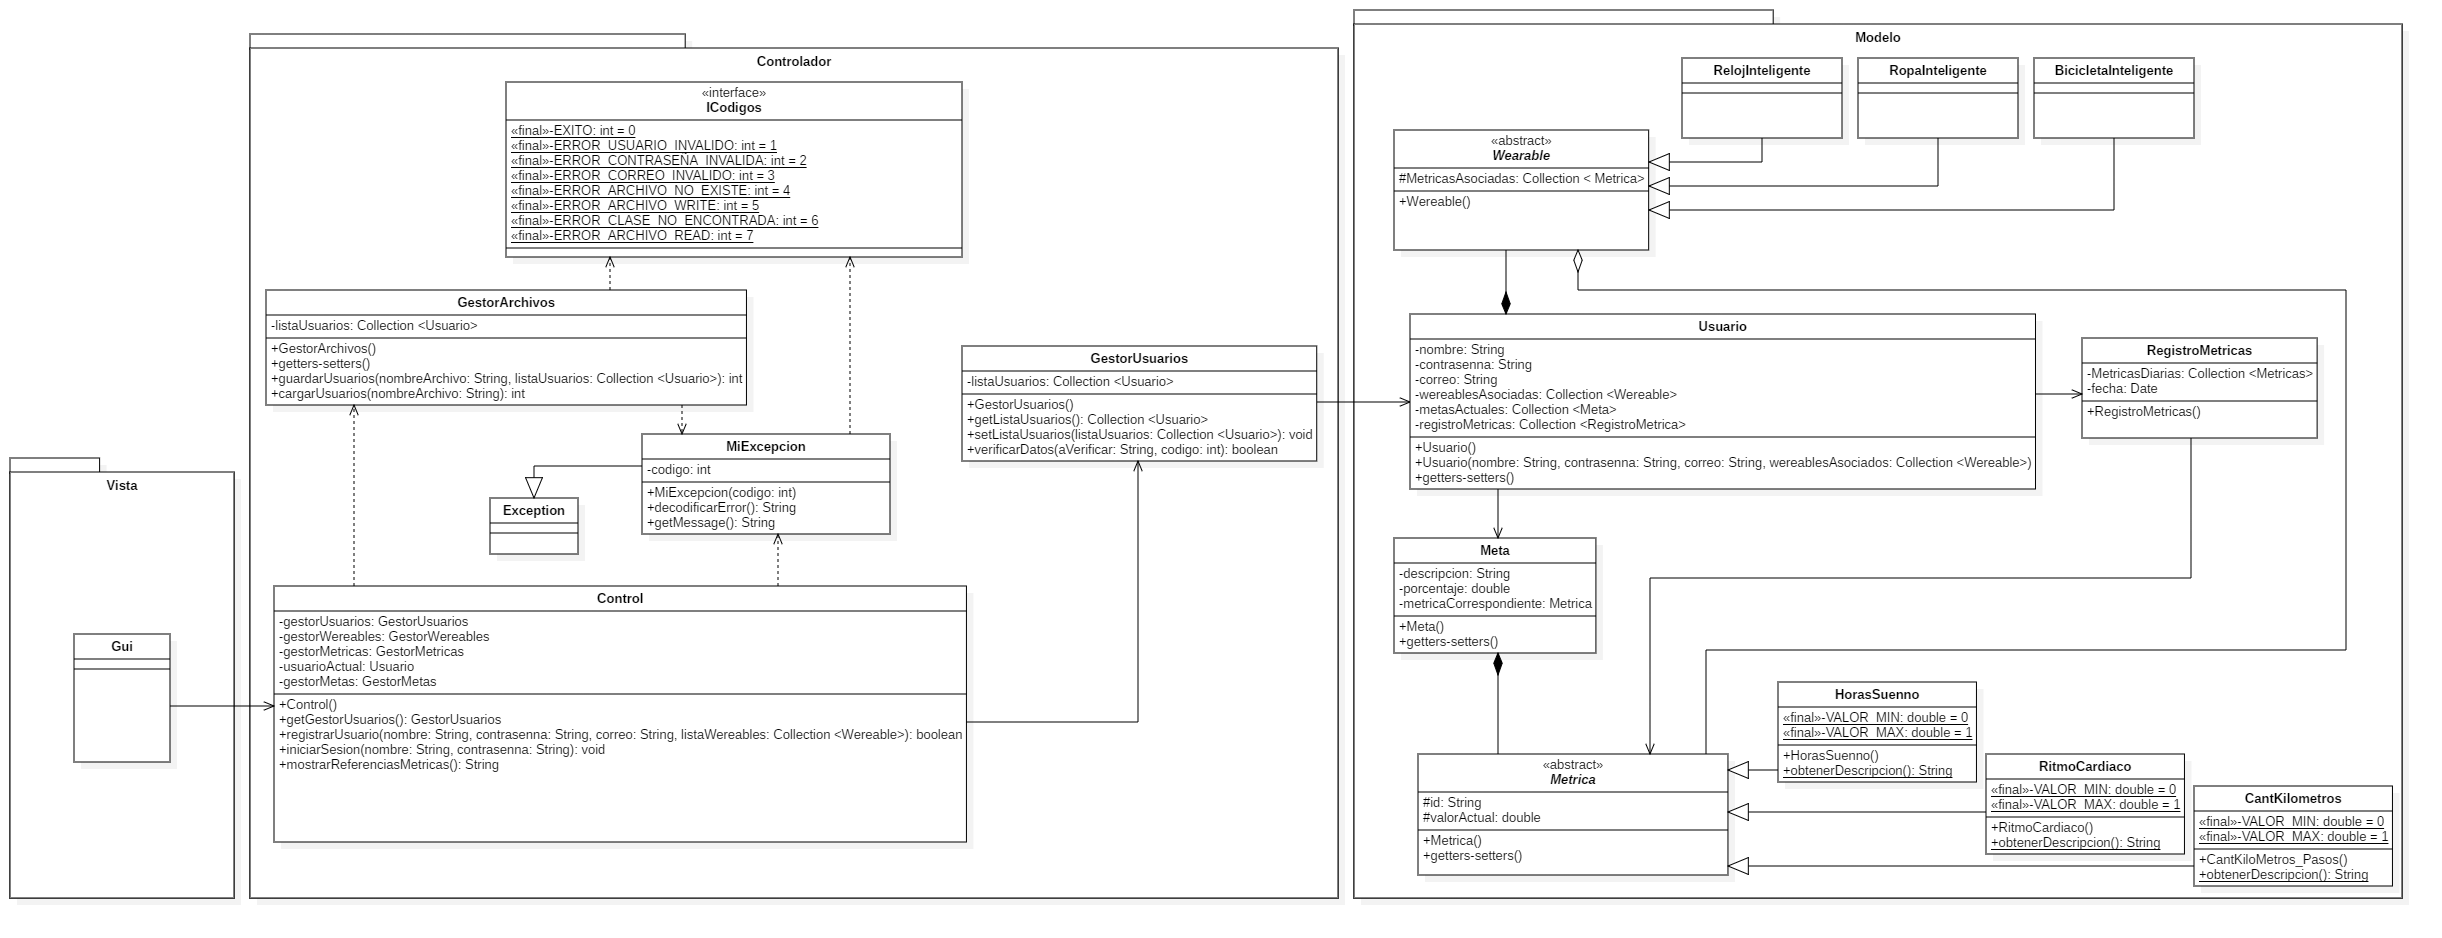
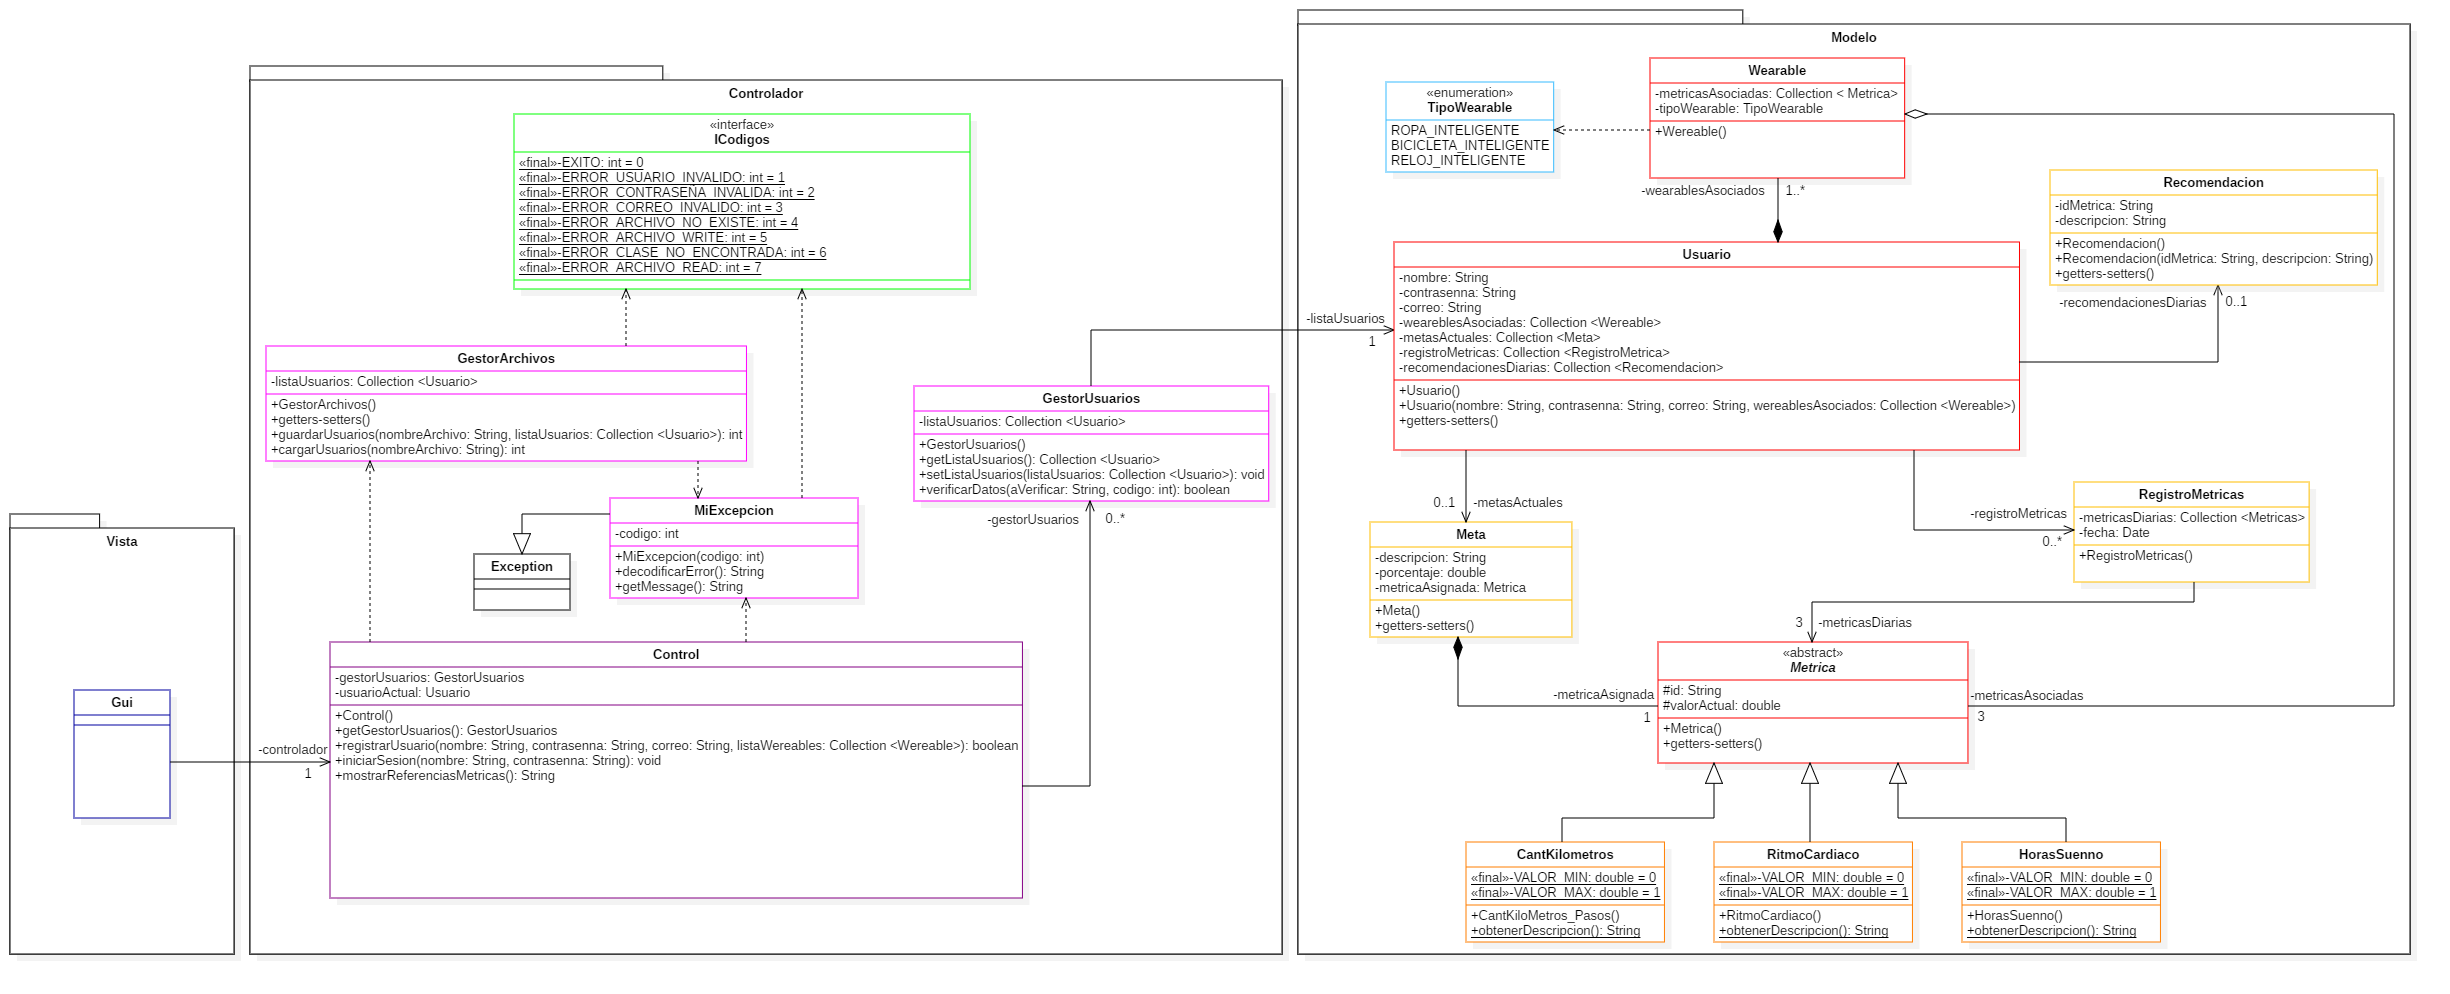
Edu - 5
Diseño, diseño y más diseño

diff --git a/src/main/java/com/mycompany/proyectopoo3/Modelo/User_Meta_Recom_RegMet/Usuario.java b/src/main/java/com/mycompany/proyectopoo3/Modelo/User_Meta_Recom_RegMet/Usuario.java
@@ -1,4 +1,4 @@
-package com.mycompany.proyectopoo3.Modelo.Usuario_Meta_RegistroMetricas;
+package com.mycompany.proyectopoo3.Modelo.User_Meta_Recom_RegMet;
 import com.mycompany.proyectopoo3.Modelo.DispositivosWereables.Wearable;
 
 import java.io.Serializable;
@@ -9,9 +9,10 @@ public class Usuario implements Serializable {
     private String nombre;
     private String contrasenna;
     private String correo;
-    private ArrayList<Wearable> wereablesAsociados;
+    private ArrayList<Wearable> weareblesAsociados;
     private ArrayList<Meta> metasActivas;
     private ArrayList<RegistroMetricas> registroMetricas;
+    private ArrayList<Recomendacion> recomendacionesDiarias;
 
     //Métodos de la clase Usuario
     //--Constructores y getters-setters
@@ -20,7 +21,7 @@ public class Usuario implements Serializable {
         this.nombre = nombre;
         this.contrasenna = contrasenna;
         this.correo = correo;
-        this.wereablesAsociados = wereablesAsociados;
+        this.weareblesAsociados = wereablesAsociados;
     }
     public String getNombre() {
         return nombre;
@@ -40,10 +41,10 @@ public class Usuario implements Serializable {
     public void setCorreo(String correo) {
         this.correo = correo;
     }
-    public ArrayList<Wearable> getWereablesAsociados() {
-        return wereablesAsociados;
+    public ArrayList<Wearable> getWeareblesAsociados() {
+        return weareblesAsociados;
     }
-    public void setWereablesAsociados(ArrayList<Wearable> wereablesAsociados) {this.wereablesAsociados = wereablesAsociados;}
+    public void setWeareblesAsociados(ArrayList<Wearable> wereablesAsociados) {this.weareblesAsociados = wereablesAsociados;}
     public ArrayList<Meta> getMetasActivas() {
         return metasActivas;
     }
@@ -52,6 +53,10 @@ public class Usuario implements Serializable {
     }
     public ArrayList<RegistroMetricas> getRegistroMetricas() {return registroMetricas;}
     public void setRegistroMetricas(ArrayList<RegistroMetricas> registroMetricas) {this.registroMetricas = registroMetricas;}
+    public ArrayList<Recomendacion> getRecomendacionesDiarias() {return recomendacionesDiarias;}
+    public void setRecomendacionesDiarias(ArrayList<Recomendacion> recomendacionesDiarias) {this.recomendacionesDiarias = recomendacionesDiarias;}
+
+
 
 
 }

diff --git a/src/main/java/com/mycompany/proyectopoo3/Modelo/User_Meta_Recom_RegMet/Meta.java b/src/main/java/com/mycompany/proyectopoo3/Modelo/User_Meta_Recom_RegMet/Meta.java
@@ -1,11 +1,11 @@
-package com.mycompany.proyectopoo3.Modelo.Usuario_Meta_RegistroMetricas;
+package com.mycompany.proyectopoo3.Modelo.User_Meta_Recom_RegMet;
 import com.mycompany.proyectopoo3.Modelo.Metricas.Metrica;
 
 public class Meta {
     //Atributos de la clase Meta
     private String descripcion;
     private double porcentaje;
-    private Metrica metricaCorrespondiente;
+    private Metrica metricaAsignada;
 
     //Métodos de la clase Meta
     //--Constructor y getters-setters
@@ -22,10 +22,12 @@ public class Meta {
     public void setPorcentaje(double porcentaje) {
         this.porcentaje = porcentaje;
     }
-    public Metrica getMetricaCorrespondiente() {
-        return metricaCorrespondiente;
+    public Metrica getMetricaAsignada() {
+        return metricaAsignada;
     }
-    public void setMetricaCorrespondiente(Metrica metricaCorrespondiente) {
-        this.metricaCorrespondiente = metricaCorrespondiente;
+    public void setMetricaAsignada(Metrica metricaCorrespondiente) {
+        this.metricaAsignada = metricaCorrespondiente;
     }
+
+
 }

diff --git a/src/main/java/com/mycompany/proyectopoo3/Modelo/User_Meta_Recom_RegMet/Recomendacion.java b/src/main/java/com/mycompany/proyectopoo3/Modelo/User_Meta_Recom_RegMet/Recomendacion.java
@@ -1,0 +1,27 @@
+package com.mycompany.proyectopoo3.Modelo.User_Meta_Recom_RegMet;
+
+public class Recomendacion {
+    //Atributo de la clase Recomendacion
+    private String idMetrica;
+    private String descripcion;
+
+    //Métodos de la clase Recomendacion
+    //--Constructor y getters-setters
+    public Recomendacion() {}
+    public Recomendacion(String idMetrica, String descripcion) {
+        this.idMetrica = idMetrica;
+        this.descripcion = descripcion;
+    }
+    public String getIdMetrica() {
+        return idMetrica;
+    }
+    public void setIdMetrica(String idMetrica) {
+        this.idMetrica = idMetrica;
+    }
+    public String getDescripcion() {
+        return descripcion;
+    }
+    public void setDescripcion(String descripcion) {
+        this.descripcion = descripcion;
+    }
+}

diff --git a/src/main/java/com/mycompany/proyectopoo3/Controlador/Control_Gestores/Control.java b/src/main/java/com/mycompany/proyectopoo3/Controlador/Control_Gestores/Control.java
@@ -4,14 +4,13 @@ import com.mycompany.proyectopoo3.Controlador.Archivos_Excepciones.MiExcepcion;
 import com.mycompany.proyectopoo3.Modelo.Metricas.CantKilometros;
 import com.mycompany.proyectopoo3.Modelo.Metricas.HorasSuenno;
 import com.mycompany.proyectopoo3.Modelo.Metricas.RitmoCardiaco;
-import com.mycompany.proyectopoo3.Modelo.Usuario_Meta_RegistroMetricas.Usuario;
+import com.mycompany.proyectopoo3.Modelo.User_Meta_Recom_RegMet.Usuario;
 import com.mycompany.proyectopoo3.Modelo.DispositivosWereables.Wearable;
 import java.util.ArrayList;
 
 public class Control {
     //Atributos de la clase control
     GestorUsuarios gestorUsuarios;
-    GestorMetas gestorMetas;
     Usuario usuarioActual;
 
     //Métodos de la clase control

diff --git a/src/main/java/com/mycompany/proyectopoo3/Modelo/DispositivosWereables/Wearable.java b/src/main/java/com/mycompany/proyectopoo3/Modelo/DispositivosWereables/Wearable.java
@@ -3,9 +3,10 @@ import com.mycompany.proyectopoo3.Modelo.Metricas.Metrica;
 import java.io.Serializable;
 import java.util.ArrayList;
 
-public abstract class Wearable implements Serializable {
+public class Wearable implements Serializable {
     //Atributos de la clase Wereable
-    protected ArrayList<Metrica> metricasAsociadas;
+    private ArrayList<Metrica> metricasAsociadas;
+    private TipoWearable tipoWearable;
 
     //Métodos de la clase Wereable
     public Wearable() {}

diff --git a/src/main/java/com/mycompany/proyectopoo3/Controlador/Control_Gestores/GestorUsuarios.java b/src/main/java/com/mycompany/proyectopoo3/Controlador/Control_Gestores/GestorUsuarios.java
@@ -1,5 +1,5 @@
 package com.mycompany.proyectopoo3.Controlador.Control_Gestores;
-import com.mycompany.proyectopoo3.Modelo.Usuario_Meta_RegistroMetricas.Usuario;
+import com.mycompany.proyectopoo3.Modelo.User_Meta_Recom_RegMet.Usuario;
 import java.util.ArrayList;
 
 public class GestorUsuarios {

diff --git a/src/main/java/com/mycompany/proyectopoo3/Controlador/Archivos_Excepciones/GestorArchivos.java b/src/main/java/com/mycompany/proyectopoo3/Controlador/Archivos_Excepciones/GestorArchivos.java
@@ -1,5 +1,5 @@
 package com.mycompany.proyectopoo3.Controlador.Archivos_Excepciones;
-import com.mycompany.proyectopoo3.Modelo.Usuario_Meta_RegistroMetricas.Usuario;
+import com.mycompany.proyectopoo3.Modelo.User_Meta_Recom_RegMet.Usuario;
 
 import java.io.*;
 import java.util.ArrayList;

diff --git a/src/main/java/com/mycompany/proyectopoo3/Modelo/User_Meta_Recom_RegMet/RegistroMetricas.java b/src/main/java/com/mycompany/proyectopoo3/Modelo/User_Meta_Recom_RegMet/RegistroMetricas.java
@@ -1,4 +1,4 @@
-package com.mycompany.proyectopoo3.Modelo.Usuario_Meta_RegistroMetricas;
+package com.mycompany.proyectopoo3.Modelo.User_Meta_Recom_RegMet;
 import com.mycompany.proyectopoo3.Modelo.Metricas.Metrica;
 import java.time.LocalDate;
 import java.util.ArrayList;

diff --git a/src/main/java/com/mycompany/proyectopoo3/Modelo/DispositivosWereables/TipoWearable.java b/src/main/java/com/mycompany/proyectopoo3/Modelo/DispositivosWereables/TipoWearable.java
@@ -1,0 +1,6 @@
+package com.mycompany.proyectopoo3.Modelo.DispositivosWereables;
+
+public enum TipoWearable {
+    RELOJ_INTELIGENTE, ROPA_INTELIGENTE, BICICLETA_INTELIGENTE
+
+}
